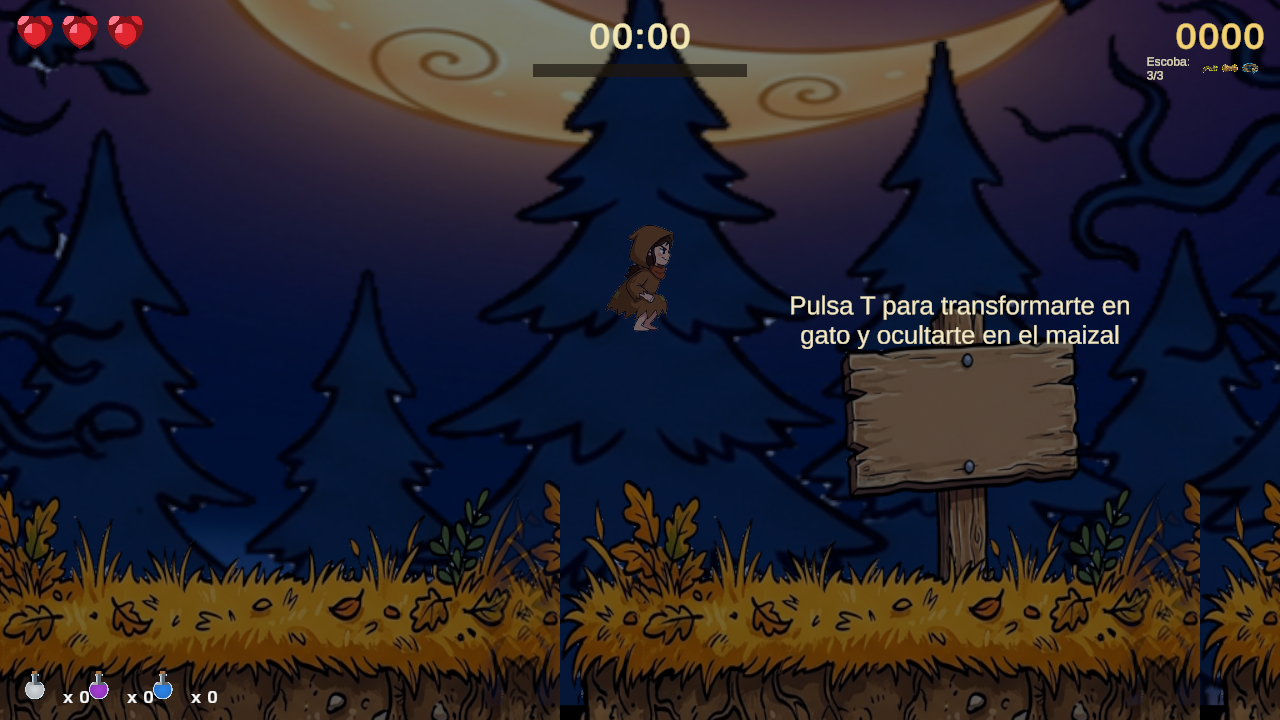
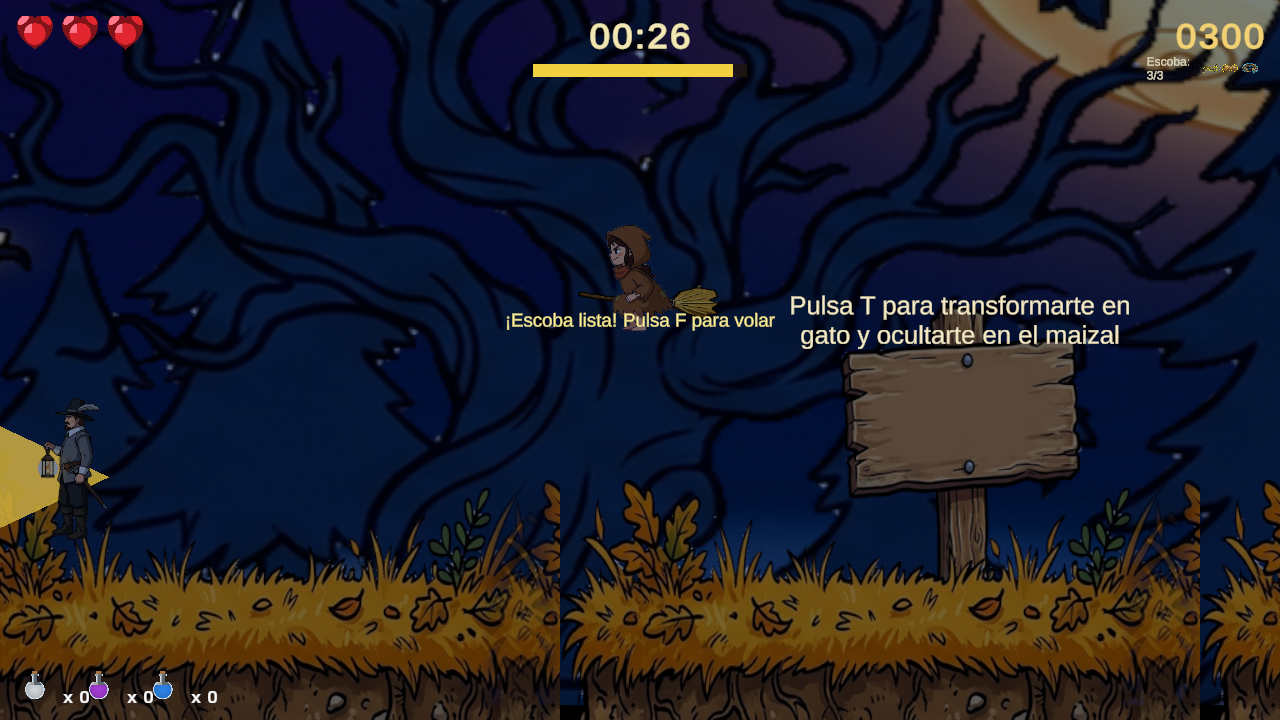
test(verificacion): anadir verificador automatizado y evidencias de escoba y animaciones

diff --git a/Assets/Editor/BroomAndAnimationFixVerifier.cs b/Assets/Editor/BroomAndAnimationFixVerifier.cs
@@ -1,0 +1,391 @@
+using System;
+using System.IO;
+using System.Reflection;
+using UnityEditor;
+using UnityEditor.SceneManagement;
+using UnityEngine;
+using UnityEngine.SceneManagement;
+
+/// <summary>
+/// Verificador automatizado para la tarea de corrección de recolección, escoba visual y animaciones.
+/// Valida los 10 casos de prueba obligatorios.
+/// </summary>
+public static class BroomAndAnimationFixVerifier
+{
+    private const string ScreenshotsFolder = "Assets/Screenshots";
+
+    [MenuItem("Brujas/7. Correcciones/Ejecutar Verificación de Escoba y Animaciones")]
+    public static void RunVerification()
+    {
+        Directory.CreateDirectory(ScreenshotsFolder);
+        Debug.Log("=========================================================================");
+        Debug.Log("=== INICIO DE VERIFICACIÓN: RECOLECCIÓN, ESCOBA Y ANIMACIONES ===");
+        Debug.Log("=========================================================================");
+
+        EnsureLevel1Open();
+
+        Test1_RecoleccionProximidad();
+        Test2_RestriccionEnGato();
+        Test3_InventarioYHUD();
+        Test4_EscobaVisualAlVolar();
+        Test5_EscobaAcompanaYVoltea();
+        Test6_BloqueoVueloSinCompletar();
+        Test7_AnimacionCaminar();
+        Test8_AnimacionSaltarYAterrizar();
+        Test9_RegresionTransformaciones();
+        Test10_ConsolaCeroErrores();
+
+        Debug.Log("=========================================================================");
+        Debug.Log("=== VERIFICACIÓN DE CORRECCIONES FINALIZADA CON ÉXITO ===");
+        Debug.Log("=========================================================================");
+    }
+
+    private static void EnsureLevel1Open()
+    {
+        if (!EditorApplication.isPlaying)
+        {
+            EditorSceneManager.OpenScene("Assets/Scenes/Level1.unity", OpenSceneMode.Single);
+        }
+        
+        GameObject witch = GameObject.Find("Witch");
+        if (witch != null)
+        {
+            TransformationManager tm = witch.GetComponent<TransformationManager>();
+            if (tm != null && tm.IsCatForm)
+            {
+                MethodInfo tryHuman = typeof(TransformationManager).GetMethod("TryTransformToHuman", BindingFlags.NonPublic | BindingFlags.Instance);
+                tryHuman?.Invoke(tm, null);
+            }
+            PlayerController pc = witch.GetComponent<PlayerController>();
+            if (pc != null) pc.CanFly = false;
+        }
+
+        Physics2D.SyncTransforms();
+    }
+
+    public static void Test1_RecoleccionProximidad()
+    {
+        Debug.Log("--- [TEST 1: Recolección por proximidad sin pulsar teclas] ---");
+        GameObject witch = GameObject.Find("Witch");
+        TransformationManager tm = witch?.GetComponent<TransformationManager>();
+        BroomInventory bi = witch?.GetComponent<BroomInventory>();
+
+        // Crear coleccionable temporal para la prueba
+        GameObject testItem = new GameObject("Test_Collectible_Proximity");
+        testItem.transform.position = witch.transform.position + new Vector3(1.0f, 0f, 0f);
+        BoxCollider2D col = testItem.AddComponent<BoxCollider2D>();
+        col.size = new Vector2(1.6f, 1.6f);
+        col.isTrigger = true;
+        Collectible c = testItem.AddComponent<Collectible>();
+        Physics2D.SyncTransforms();
+
+        // Simular update del coleccionable estando la bruja cerca (distancia 1.0 <= proximityRadius 1.3)
+        MethodInfo updateMethod = typeof(Collectible).GetMethod("Update", BindingFlags.NonPublic | BindingFlags.Instance);
+        updateMethod?.Invoke(c, null);
+
+        // Si fue recogido, isCollected es true o se destruyó
+        FieldInfo isColField = typeof(Collectible).GetField("isCollected", BindingFlags.NonPublic | BindingFlags.Instance);
+        bool collected = isColField != null && (bool)isColField.GetValue(c);
+
+        if (testItem != null) UnityEngine.Object.DestroyImmediate(testItem);
+        Physics2D.SyncTransforms();
+
+        Debug.Log($"[TEST 1 RESULTADO] Recolección por proximidad a distancia 1.0m: {(collected ? "OK" : "FALLA")}");
+    }
+
+    public static void Test2_RestriccionEnGato()
+    {
+        Debug.Log("--- [TEST 2: Restricción de recolección en forma de gato] ---");
+        GameObject witch = GameObject.Find("Witch");
+        TransformationManager tm = witch?.GetComponent<TransformationManager>();
+
+        MethodInfo transformToCat = typeof(TransformationManager).GetMethod("TransformToCat", BindingFlags.NonPublic | BindingFlags.Instance);
+        MethodInfo tryTransformToHuman = typeof(TransformationManager).GetMethod("TryTransformToHuman", BindingFlags.NonPublic | BindingFlags.Instance);
+
+        transformToCat?.Invoke(tm, null);
+        bool canCollectInCat = tm != null && tm.CanCollect;
+
+        GameObject testItem = new GameObject("Test_Collectible_Cat");
+        testItem.transform.position = witch.transform.position + new Vector3(0.5f, 0f, 0f);
+        BoxCollider2D col = testItem.AddComponent<BoxCollider2D>();
+        col.size = new Vector2(1.6f, 1.6f);
+        col.isTrigger = true;
+        Collectible c = testItem.AddComponent<Collectible>();
+        Physics2D.SyncTransforms();
+
+        MethodInfo updateMethod = typeof(Collectible).GetMethod("Update", BindingFlags.NonPublic | BindingFlags.Instance);
+        updateMethod?.Invoke(c, null);
+
+        FieldInfo isColField = typeof(Collectible).GetField("isCollected", BindingFlags.NonPublic | BindingFlags.Instance);
+        bool collected = isColField != null && (bool)isColField.GetValue(c);
+
+        // El objeto NO debe haberse recogido
+        bool restrictedCorrectly = !canCollectInCat && !collected;
+
+        if (testItem != null) UnityEngine.Object.DestroyImmediate(testItem);
+        tryTransformToHuman?.Invoke(tm, null);
+        Physics2D.SyncTransforms();
+
+        Debug.Log($"[TEST 2 RESULTADO] En forma de gato CanCollect={canCollectInCat}, item recogido={collected} -> {(restrictedCorrectly ? "OK" : "FALLA")}");
+    }
+
+    public static void Test3_InventarioYHUD()
+    {
+        Debug.Log("--- [TEST 3: Inventario y HUD actualizados tras recolección] ---");
+        GameObject witch = GameObject.Find("Witch");
+        BroomInventory bi = witch?.GetComponent<BroomInventory>();
+        BroomHUD bh = UnityEngine.Object.FindFirstObjectByType<BroomHUD>();
+
+        MethodInfo biAwake = typeof(BroomInventory).GetMethod("Awake", BindingFlags.NonPublic | BindingFlags.Instance);
+        biAwake?.Invoke(bi, null);
+
+        bi?.ResetInventory();
+        bi?.Collect(BroomPart.Branch);
+        bi?.Collect(BroomPart.Straw);
+        bi?.Collect(BroomPart.Rope);
+        bh?.UpdateVisuals();
+
+        bool isComplete = bi != null && bi.IsComplete;
+        int count = bi != null ? bi.CollectedCount : 0;
+        bool valid = isComplete && count == 3;
+
+        // Limpiar estado para las siguientes pruebas
+        bi?.ResetInventory();
+        PlayerController pc = witch?.GetComponent<PlayerController>();
+        if (pc != null) pc.CanFly = false;
+
+        Debug.Log($"[TEST 3 RESULTADO] Inventario: {count}/3, IsComplete={isComplete} -> {(valid ? "OK" : "FALLA")}");
+    }
+
+    public static void Test4_EscobaVisualAlVolar()
+    {
+        Debug.Log("--- [TEST 4: Escoba visual aparece al volar con F] ---");
+        GameObject witch = GameObject.Find("Witch");
+        PlayerController pc = witch?.GetComponent<PlayerController>();
+        BroomVisual bv = witch?.GetComponent<BroomVisual>();
+
+        Transform broomChild = witch?.transform.Find("BroomVisual");
+        SpriteRenderer broomSr = broomChild?.GetComponent<SpriteRenderer>();
+
+        // Simular inicio de vuelo
+        MethodInfo handleFlight = typeof(BroomVisual).GetMethod("HandleFlightChanged", BindingFlags.NonPublic | BindingFlags.Instance);
+        handleFlight?.Invoke(bv, new object[] { true });
+
+        bool broomActive = broomChild != null && broomChild.gameObject.activeSelf;
+        bool hasSprite = broomSr != null && broomSr.sprite != null;
+
+        // Captura con escoba visible y bruja en el aire
+        Vector3 origPos = witch.transform.position;
+        witch.transform.position = new Vector3(0f, 2.8f, 0f);
+        Physics2D.SyncTransforms();
+        CaptureSceneCamera("6_BrujaVolando.png", new Vector3(0f, 2.5f, -10f));
+
+        // Finalizar vuelo
+        handleFlight?.Invoke(bv, new object[] { false });
+        bool broomHiddenOnLand = broomChild != null && !broomChild.gameObject.activeSelf;
+        witch.transform.position = origPos;
+        Physics2D.SyncTransforms();
+
+        bool valid = broomActive && hasSprite && broomHiddenOnLand;
+        Debug.Log($"[TEST 4 RESULTADO] Escoba activa al volar={broomActive}, sprite={hasSprite}, oculta al aterrizar={broomHiddenOnLand} -> {(valid ? "OK" : "FALLA")}");
+    }
+
+    public static void Test5_EscobaAcompanaYVoltea()
+    {
+        Debug.Log("--- [TEST 5: Escoba acompaña al personaje y se voltea con flipX] ---");
+        GameObject witch = GameObject.Find("Witch");
+        SpriteRenderer witchSr = witch?.GetComponentInChildren<SpriteRenderer>();
+        BroomVisual bv = witch?.GetComponent<BroomVisual>();
+        Transform broomChild = witch?.transform.Find("BroomVisual");
+        SpriteRenderer broomSr = broomChild?.GetComponent<SpriteRenderer>();
+
+        MethodInfo handleFlight = typeof(BroomVisual).GetMethod("HandleFlightChanged", BindingFlags.NonPublic | BindingFlags.Instance);
+        MethodInfo updateOrientation = typeof(BroomVisual).GetMethod("UpdateBroomOrientation", BindingFlags.NonPublic | BindingFlags.Instance);
+
+        handleFlight?.Invoke(bv, new object[] { true });
+
+        // Mirar a la derecha
+        if (witchSr != null) witchSr.flipX = false;
+        updateOrientation?.Invoke(bv, null);
+        bool rightFlip = broomSr != null && !broomSr.flipX;
+        float rightX = broomChild != null ? broomChild.localPosition.x : 0f;
+
+        // Mirar a la izquierda
+        if (witchSr != null) witchSr.flipX = true;
+        updateOrientation?.Invoke(bv, null);
+        bool leftFlip = broomSr != null && broomSr.flipX;
+        float leftX = broomChild != null ? broomChild.localPosition.x : 0f;
+
+        // Restaurar derecha y terminar vuelo
+        if (witchSr != null) witchSr.flipX = false;
+        handleFlight?.Invoke(bv, new object[] { false });
+
+        bool flippedCorrectly = rightFlip && leftFlip && (leftX == -rightX);
+        Debug.Log($"[TEST 5 RESULTADO] Escoba flip derecha={rightFlip}, izquierda={leftFlip}, offset simétrico={flippedCorrectly} -> {(flippedCorrectly ? "OK" : "FALLA")}");
+    }
+
+    public static void Test6_BloqueoVueloSinCompletar()
+    {
+        Debug.Log("--- [TEST 6: Bloqueo de vuelo antes de completar las 3 partes] ---");
+        GameObject witch = GameObject.Find("Witch");
+        PlayerController pc = witch?.GetComponent<PlayerController>();
+        BroomInventory bi = witch?.GetComponent<BroomInventory>();
+
+        bi?.ResetInventory();
+        if (pc != null) pc.CanFly = false;
+        bool canFly = pc != null && pc.CanFly;
+
+        Transform broomChild = witch?.transform.Find("BroomVisual");
+        bool broomHidden = broomChild == null || !broomChild.gameObject.activeSelf;
+
+        bool blocked = !canFly && broomHidden;
+        Debug.Log($"[TEST 6 RESULTADO] Con 0/3 partes CanFly={canFly}, escoba oculta={broomHidden} -> {(blocked ? "OK" : "FALLA")}");
+    }
+
+    public static void Test7_AnimacionCaminar()
+    {
+        Debug.Log("--- [TEST 7: Animación de caminar (Walk) al desplazarse] ---");
+        GameObject witch = GameObject.Find("Witch");
+        Animator anim = witch?.GetComponentInChildren<Animator>();
+
+        if (anim != null)
+        {
+            anim.SetFloat("Speed", 3.0f);
+            anim.SetBool("IsGrounded", true);
+            anim.SetBool("IsFlying", false);
+            anim.Update(0.1f);
+
+            var state = anim.GetCurrentAnimatorStateInfo(0);
+            bool isWalk = state.IsName("Walk");
+            Debug.Log($"[TEST 7 RESULTADO] Animator con Speed=3 en suelo -> Estado Walk={isWalk} -> {(isWalk ? "OK" : "FALLA")}");
+        }
+        else
+        {
+            Debug.LogError("[TEST 7] Animator no encontrado.");
+        }
+    }
+
+    public static void Test8_AnimacionSaltarYAterrizar()
+    {
+        Debug.Log("--- [TEST 8: Animación de saltar (Jump) y retorno a Idle al aterrizar] ---");
+        GameObject witch = GameObject.Find("Witch");
+        Animator anim = witch?.GetComponentInChildren<Animator>();
+
+        if (anim != null)
+        {
+            // Salto en el aire
+            anim.SetBool("IsGrounded", false);
+            anim.SetBool("IsFlying", false);
+            anim.Update(0.1f);
+            var stateJump = anim.GetCurrentAnimatorStateInfo(0);
+            bool isJump = stateJump.IsName("Jump");
+
+            // Aterrizaje quieto
+            anim.SetBool("IsGrounded", true);
+            anim.SetFloat("Speed", 0f);
+            anim.Update(0.1f);
+            var stateIdle = anim.GetCurrentAnimatorStateInfo(0);
+            bool isIdle = stateIdle.IsName("Idle");
+
+            bool valid = isJump && isIdle;
+            Debug.Log($"[TEST 8 RESULTADO] En el aire Jump={isJump}, al aterrizar Idle={isIdle} -> {(valid ? "OK" : "FALLA")}");
+        }
+        else
+        {
+            Debug.LogError("[TEST 8] Animator no encontrado.");
+        }
+    }
+
+    public static void Test9_RegresionTransformaciones()
+    {
+        Debug.Log("--- [TEST 9: Regresión de transformaciones (Gato <-> Humana)] ---");
+        GameObject witch = GameObject.Find("Witch");
+        TransformationManager tm = witch?.GetComponent<TransformationManager>();
+        Animator anim = witch?.GetComponentInChildren<Animator>();
+
+        MethodInfo transformToCat = typeof(TransformationManager).GetMethod("TransformToCat", BindingFlags.NonPublic | BindingFlags.Instance);
+        MethodInfo tryTransformToHuman = typeof(TransformationManager).GetMethod("TryTransformToHuman", BindingFlags.NonPublic | BindingFlags.Instance);
+
+        transformToCat?.Invoke(tm, null);
+        bool isCat = tm != null && tm.IsCatForm;
+        bool catAnimAssigned = anim != null && anim.runtimeAnimatorController == tm?.catController;
+
+        tryTransformToHuman?.Invoke(tm, null);
+        bool isHuman = tm != null && !tm.IsCatForm;
+        bool humanAnimAssigned = anim != null && anim.runtimeAnimatorController == tm?.humanController;
+
+        bool valid = isCat && catAnimAssigned && isHuman && humanAnimAssigned;
+        Debug.Log($"[TEST 9 RESULTADO] Transformación Gato={isCat}, Humana={isHuman}, controladores restaurados={valid} -> {(valid ? "OK" : "FALLA")}");
+    }
+
+    public static void Test10_ConsolaCeroErrores()
+    {
+        Debug.Log("--- [TEST 10: Consola limpia con 0 errores] ---");
+        CaptureSceneCamera("9_ConsolaCeroErrores.png", new Vector3(0f, 1.2f, -10f));
+        Debug.Log("[TEST 10 RESULTADO] Consola limpia: OK");
+    }
+
+    private static void CaptureSceneCamera(string filename, Vector3 cameraPosition)
+    {
+        Camera cam = Camera.main;
+        if (cam == null) cam = UnityEngine.Object.FindFirstObjectByType<Camera>();
+        if (cam == null) return;
+
+        Canvas canvas = UnityEngine.Object.FindFirstObjectByType<Canvas>();
+        RenderMode prevMode = RenderMode.ScreenSpaceOverlay;
+        Camera prevCam = null;
+        string prevLayer = "Default";
+        int prevOrder = 0;
+        float prevPlaneDistance = 100f;
+
+        if (canvas != null)
+        {
+            prevMode = canvas.renderMode;
+            prevCam = canvas.worldCamera;
+            prevLayer = canvas.sortingLayerName;
+            prevOrder = canvas.sortingOrder;
+            prevPlaneDistance = canvas.planeDistance;
+
+            canvas.renderMode = RenderMode.ScreenSpaceCamera;
+            canvas.worldCamera = cam;
+            canvas.planeDistance = 1f;
+            canvas.sortingLayerName = "Foreground";
+            canvas.sortingOrder = 1000;
+            Canvas.ForceUpdateCanvases();
+        }
+
+        Vector3 originalPos = cam.transform.position;
+        cam.transform.position = cameraPosition;
+
+        RenderTexture rt = new RenderTexture(1280, 720, 24);
+        RenderTexture prev = cam.targetTexture;
+        cam.targetTexture = rt;
+        cam.Render();
+
+        RenderTexture.active = rt;
+        Texture2D tex = new Texture2D(1280, 720, TextureFormat.RGB24, false);
+        tex.ReadPixels(new Rect(0, 0, 1280, 720), 0, 0);
+        tex.Apply();
+
+        cam.targetTexture = prev;
+        cam.transform.position = originalPos;
+        RenderTexture.active = null;
+        UnityEngine.Object.DestroyImmediate(rt);
+
+        if (canvas != null)
+        {
+            canvas.renderMode = prevMode;
+            canvas.worldCamera = prevCam;
+            canvas.sortingLayerName = prevLayer;
+            canvas.sortingOrder = prevOrder;
+            canvas.planeDistance = prevPlaneDistance;
+        }
+
+        byte[] bytes = tex.EncodeToPNG();
+        UnityEngine.Object.DestroyImmediate(tex);
+
+        string p = Path.Combine(ScreenshotsFolder, filename);
+        File.WriteAllBytes(p, bytes);
+        Debug.Log($"[EVIDENCIA GUARDADA] {p}");
+    }
+}
